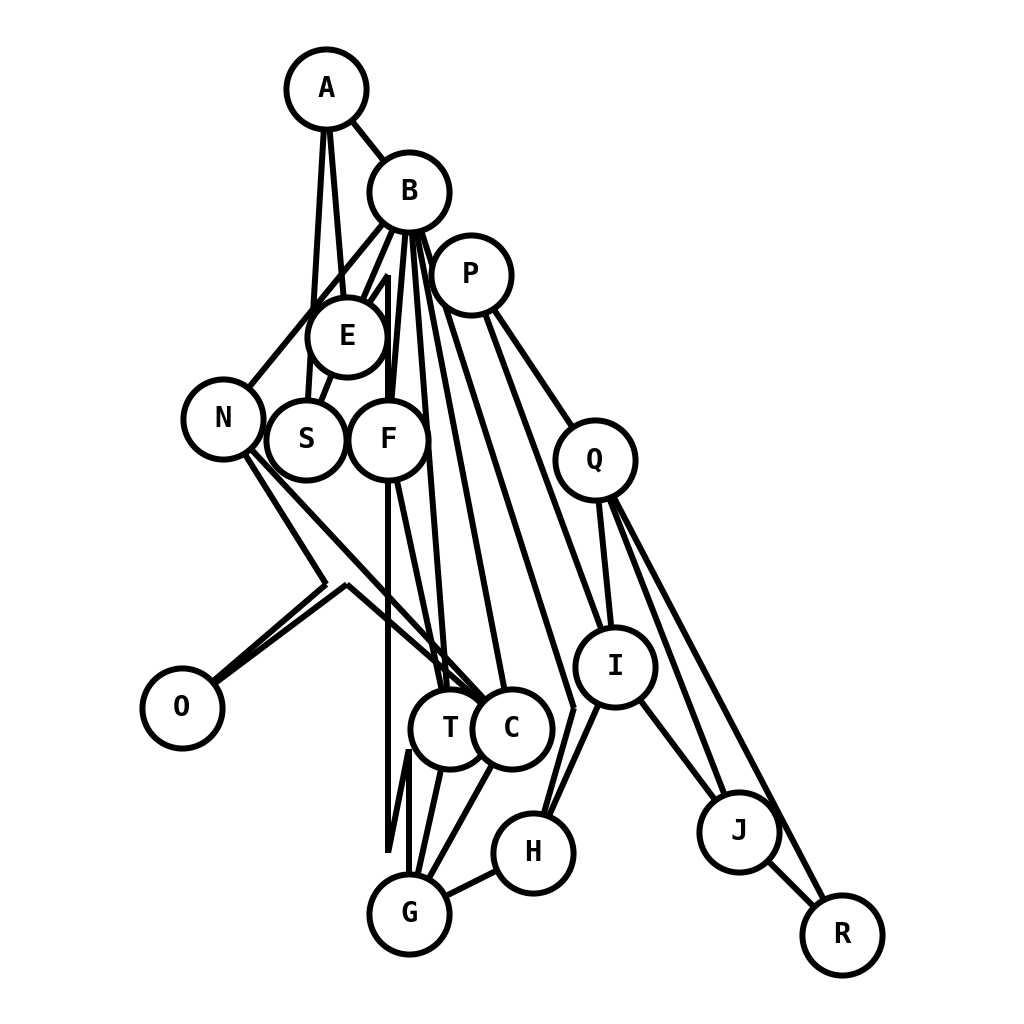
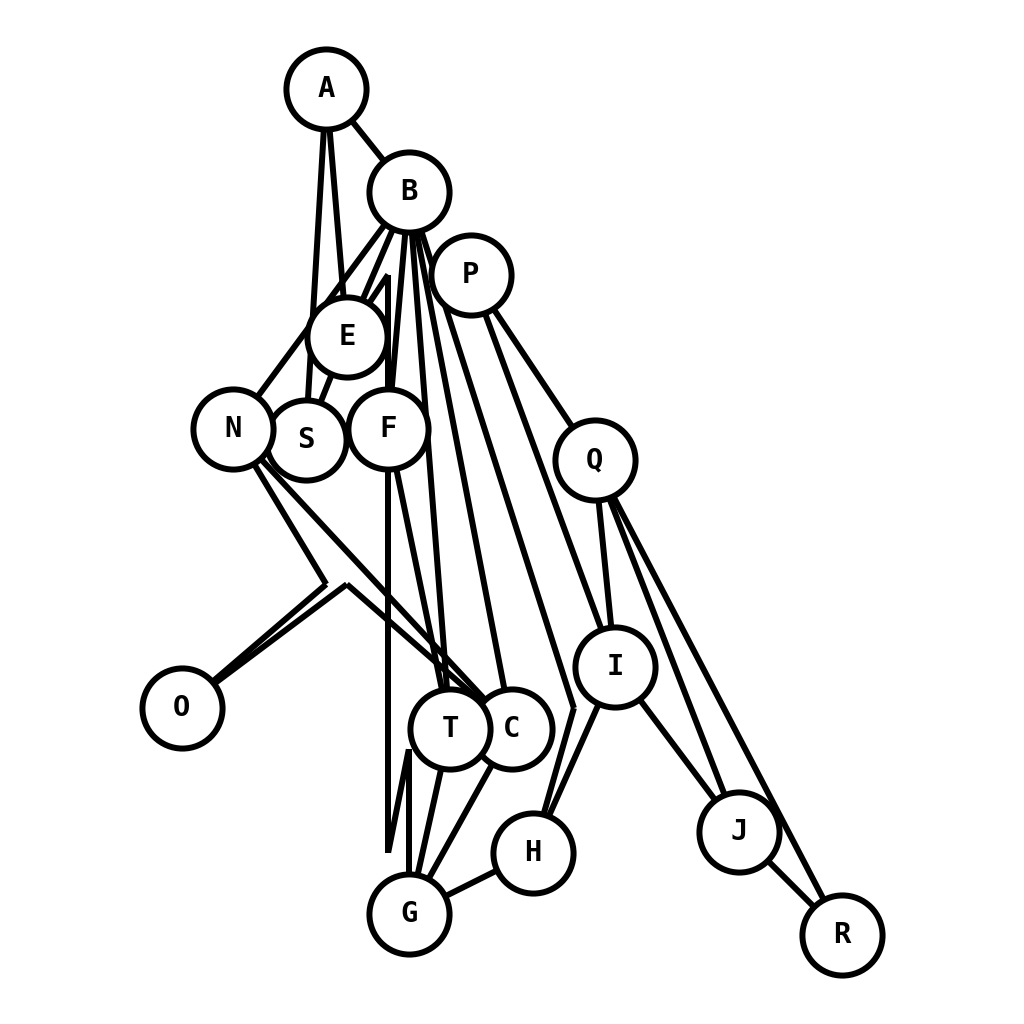
adjust coordinates of m- graph

diff --git a/purchase_dataset_recreation/PurchaseMMinus.py b/purchase_dataset_recreation/PurchaseMMinus.py
@@ -5,9 +5,9 @@ MMinus = PurchaseGraph("m-")
 
 MMinus.add_node("O", pos=(0.5, 3.0))
 
-MMinus.add_node("N", pos=(1.0, 6.5))
+MMinus.add_node("N", pos=(1.125, 6.375))
 MMinus.add_node("S", pos=(2.0, 6.25))
-MMinus.add_node("F", pos=(3.0, 6.25))
+MMinus.add_node("F", pos=(3.0, 6.375))
 
 MMinus.add_node("A", pos=(2.25, 10.5))
 MMinus.add_node("E", pos=(2.5, 7.5))
